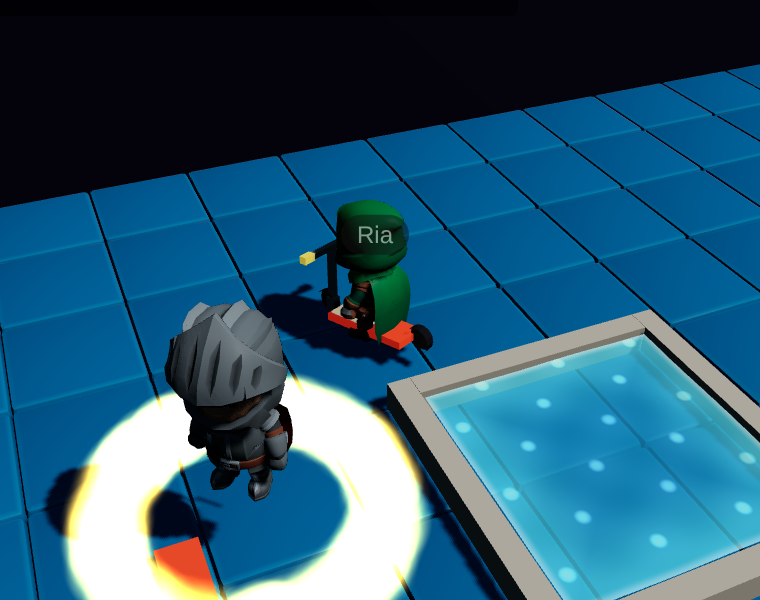
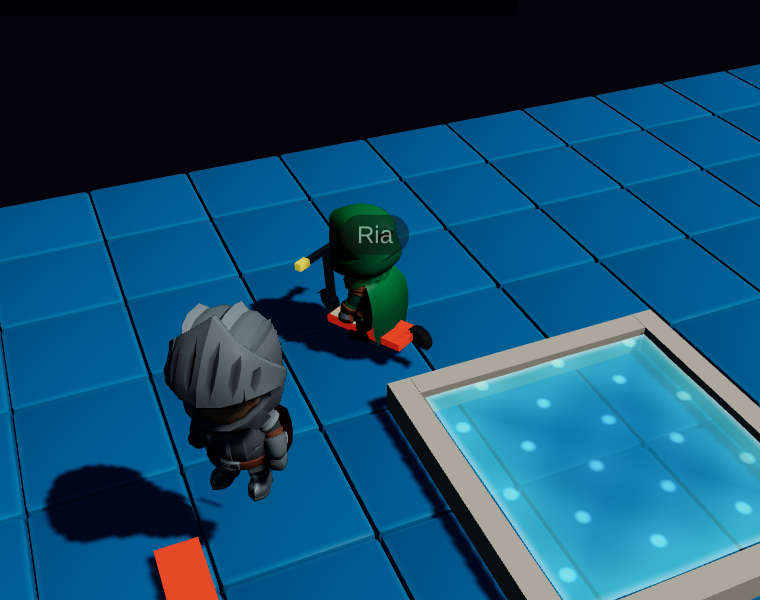
Hide the proximity disc under swimmers and riders, lift the crawling swimmer so it reads face down, and recapture the strips

diff --git a/packages/world/src/renderer/ProximityGlow.tsx b/packages/world/src/renderer/ProximityGlow.tsx
@@ -225,6 +225,7 @@ export function ProximityGlow({
       setSparklingVersion((v) => v + 1);
     }
 
+    // A swimmer or rider has no disc: it would hide the vehicle and the pose.
     // Per-player disc positions / colors. NOTE: `entered` players have
     // their personal disc hidden (the MeetingArea visual covers them),
     // so we force opacity to fade out for those.
@@ -240,7 +241,7 @@ export function ProximityGlow({
       // over their visual.
       const inMeetingArea = discState === 'entered';
       const isPulsing = discState === 'entering' || discState === 'exiting';
-      const target = inMeetingArea
+      const target = inMeetingArea || p.pose
         ? 0
         : isPulsing
           ? intensity * pulse

diff --git a/packages/world/src/motion/swim.ts b/packages/world/src/motion/swim.ts
@@ -32,8 +32,8 @@ export function stepPitch(current: number, target: number, dt: number): number {
 
 export const SWIM_STRATEGIES: Record<SwimState, SwimStrategy> = {
   tread: { speed: 0, clip: 'T-Pose', refSpeed: 0, pitch: -PRONE_PITCH, sink: 0.1 },
-  paddle: { speed: 2.2, clip: 'Running_B', refSpeed: 3.2, pitch: PRONE_PITCH, sink: -0.1 },
-  stroke: { speed: 3.4, clip: 'Running_A', refSpeed: 3.2, pitch: PRONE_PITCH, sink: -0.1 },
+  paddle: { speed: 2.2, clip: 'Running_B', refSpeed: 3.2, pitch: PRONE_PITCH, sink: -0.3 },
+  stroke: { speed: 3.4, clip: 'Running_A', refSpeed: 3.2, pitch: PRONE_PITCH, sink: -0.3 },
 };
 
 const MOVING_SPEED = 0.15;
